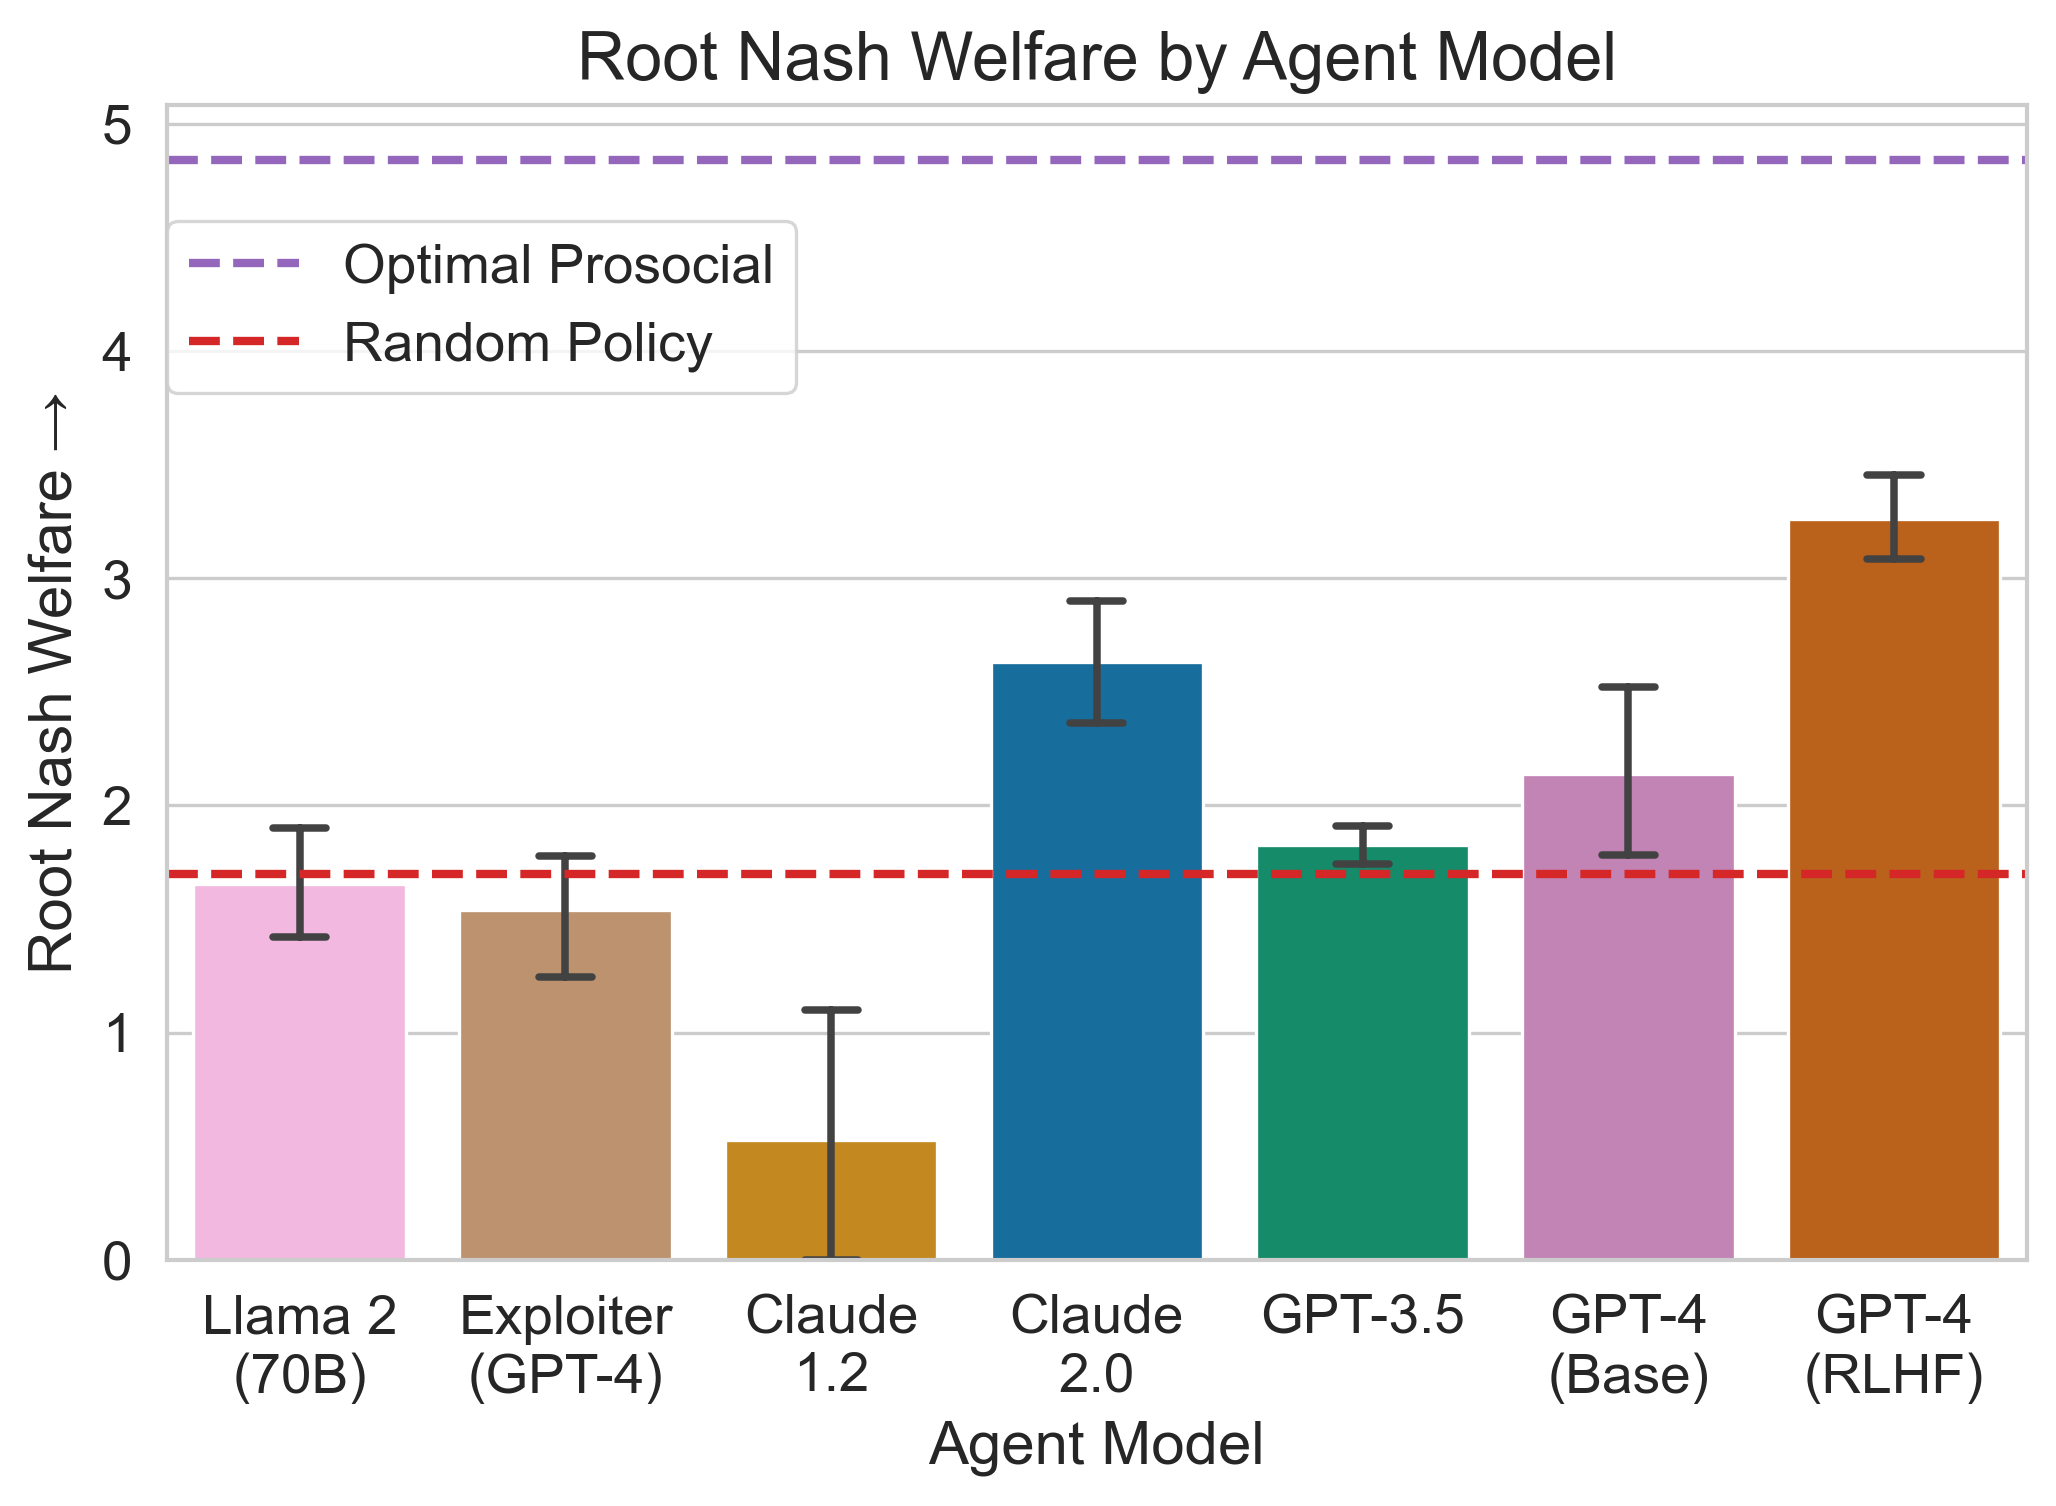
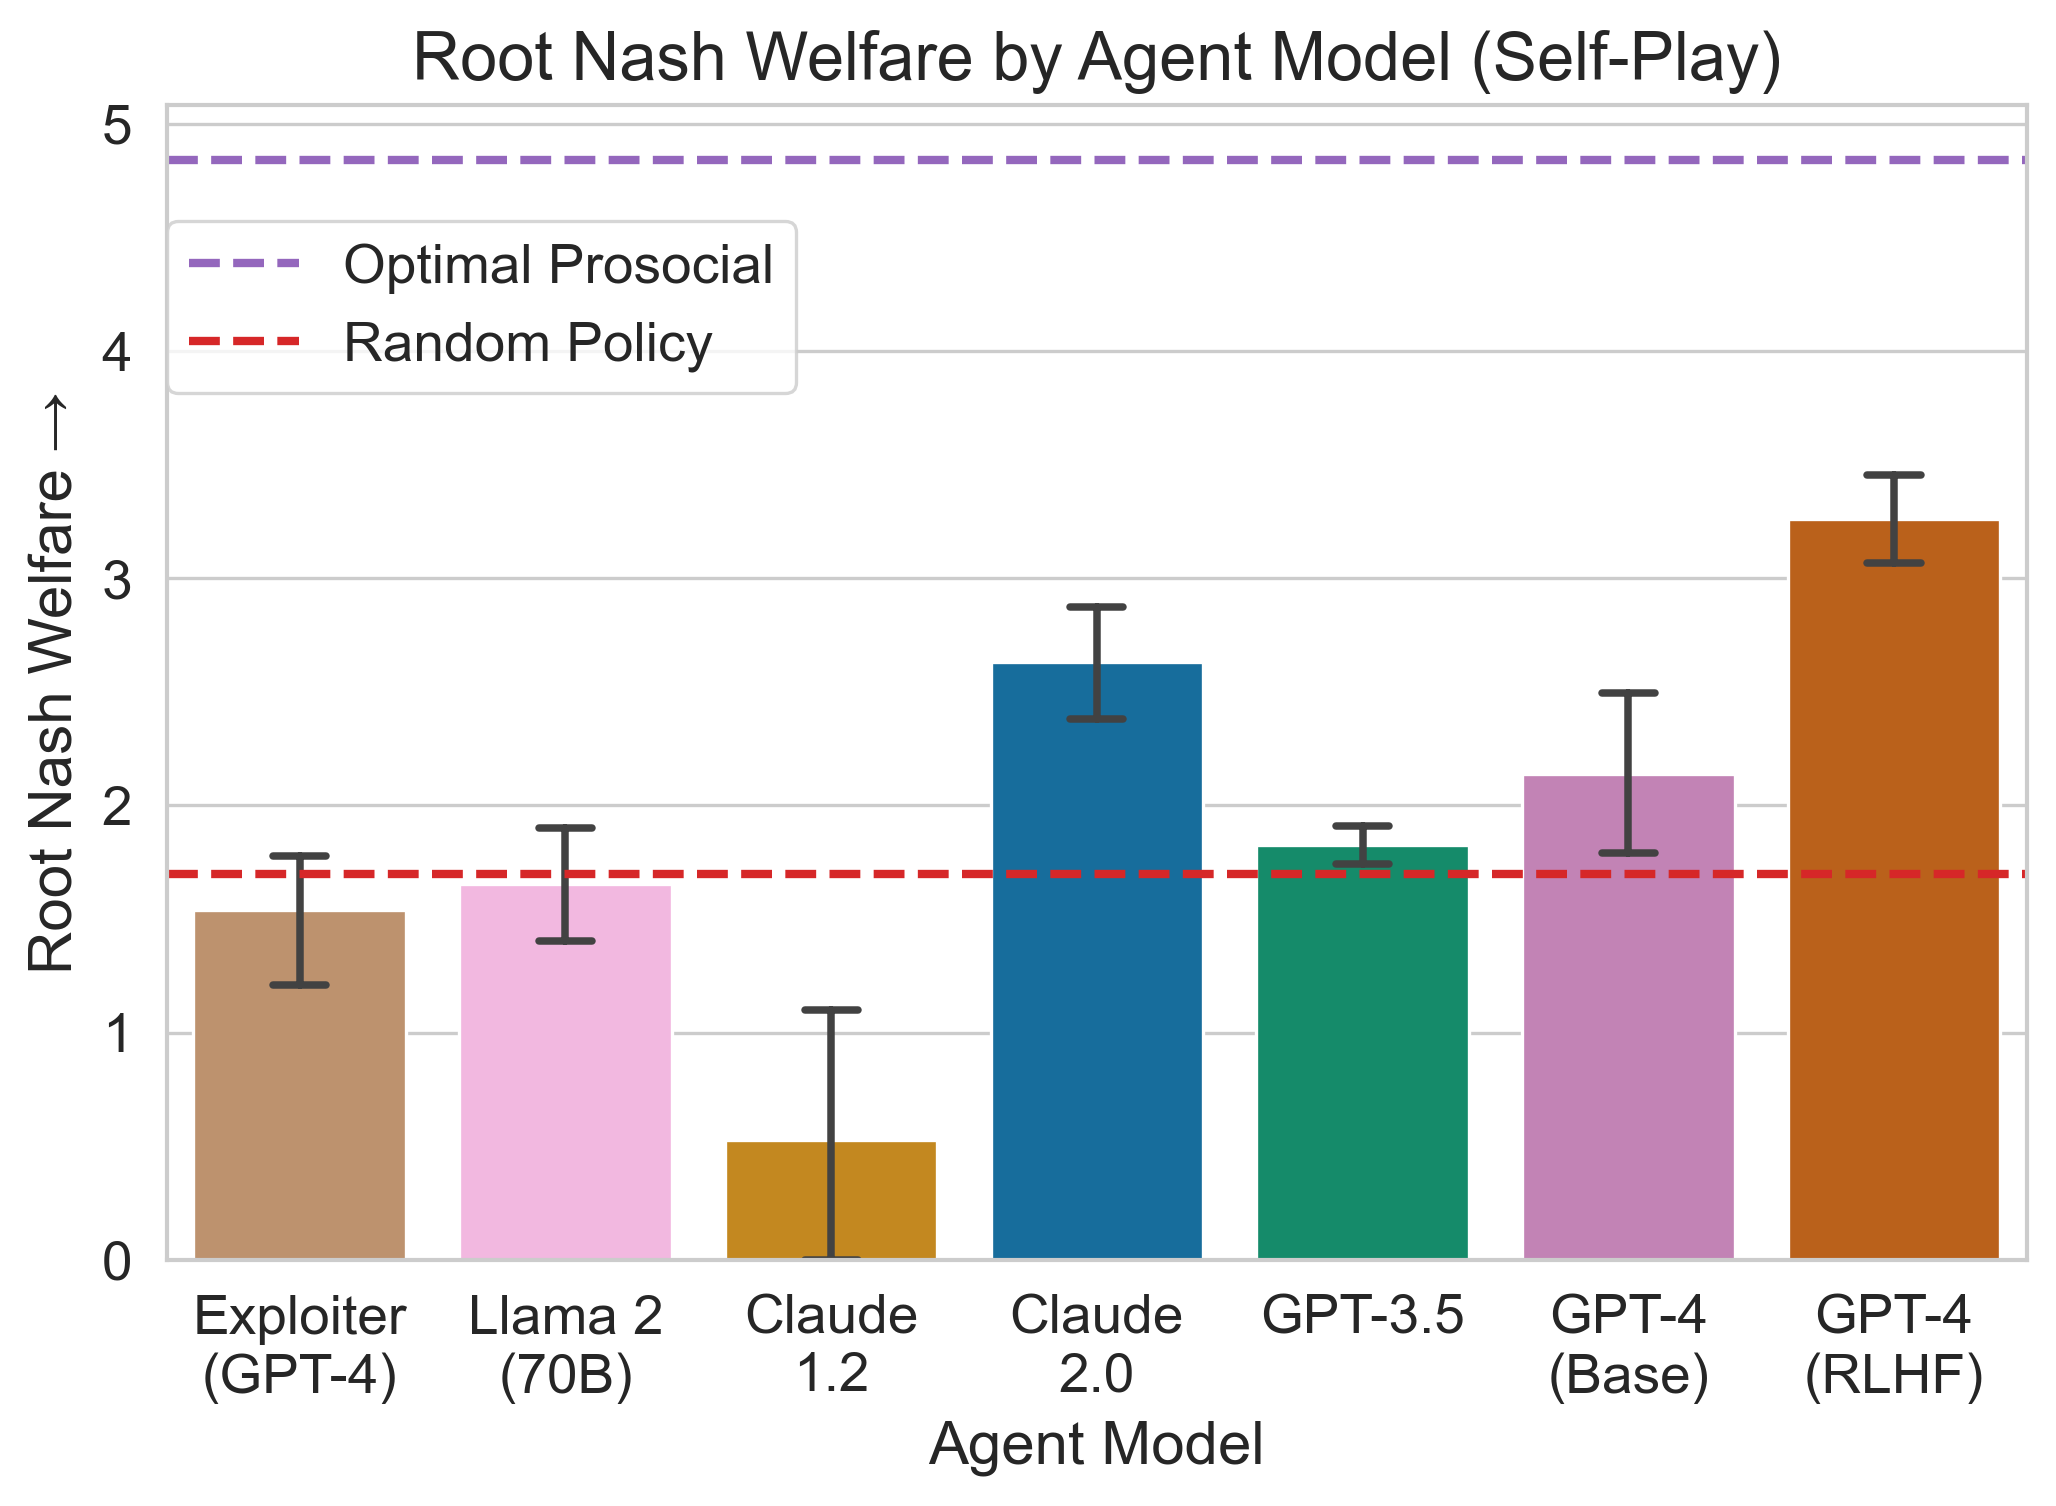
Add (Self-Play) to SP plot titles

diff --git a/experiments/charts/same_policy.py b/experiments/charts/same_policy.py
@@ -203,7 +203,7 @@ def main() -> None:
         elif improvement_sign == -1:
             y_axis_label += " ←"
         plt.ylabel(y_axis_label)
-        title = f"{y_label} by Agent Model"
+        title = f"{y_label} by Agent Model (Self-Play)"
         plt.title(title)
 
         # Set y bounds
@@ -252,7 +252,7 @@ def main() -> None:
         )
         plt.xlabel(f"Average {x_label} per Phase ↓")
         plt.ylabel("Root Nash Welfare →")
-        plt.title(f"Root Nash Welfare vs Average {x_label} per Phase")
+        plt.title(f"Root Nash Welfare vs Average {x_label} per Phase (Self-Play)")
         # Legend in 2 columns
         plt.legend(
             borderaxespad=0.0,

diff --git a/experiments/charts/chart_utils.py b/experiments/charts/chart_utils.py
@@ -58,8 +58,6 @@ def create_file_dir_if_not_exists(file_path: str) -> None:
 
 def initialize_plot_default() -> None:
     """Set default plot styling."""
-    # Clear the plot
-    plt.clf()
     # Set seed
     set_seed(66)
     # Default theme
